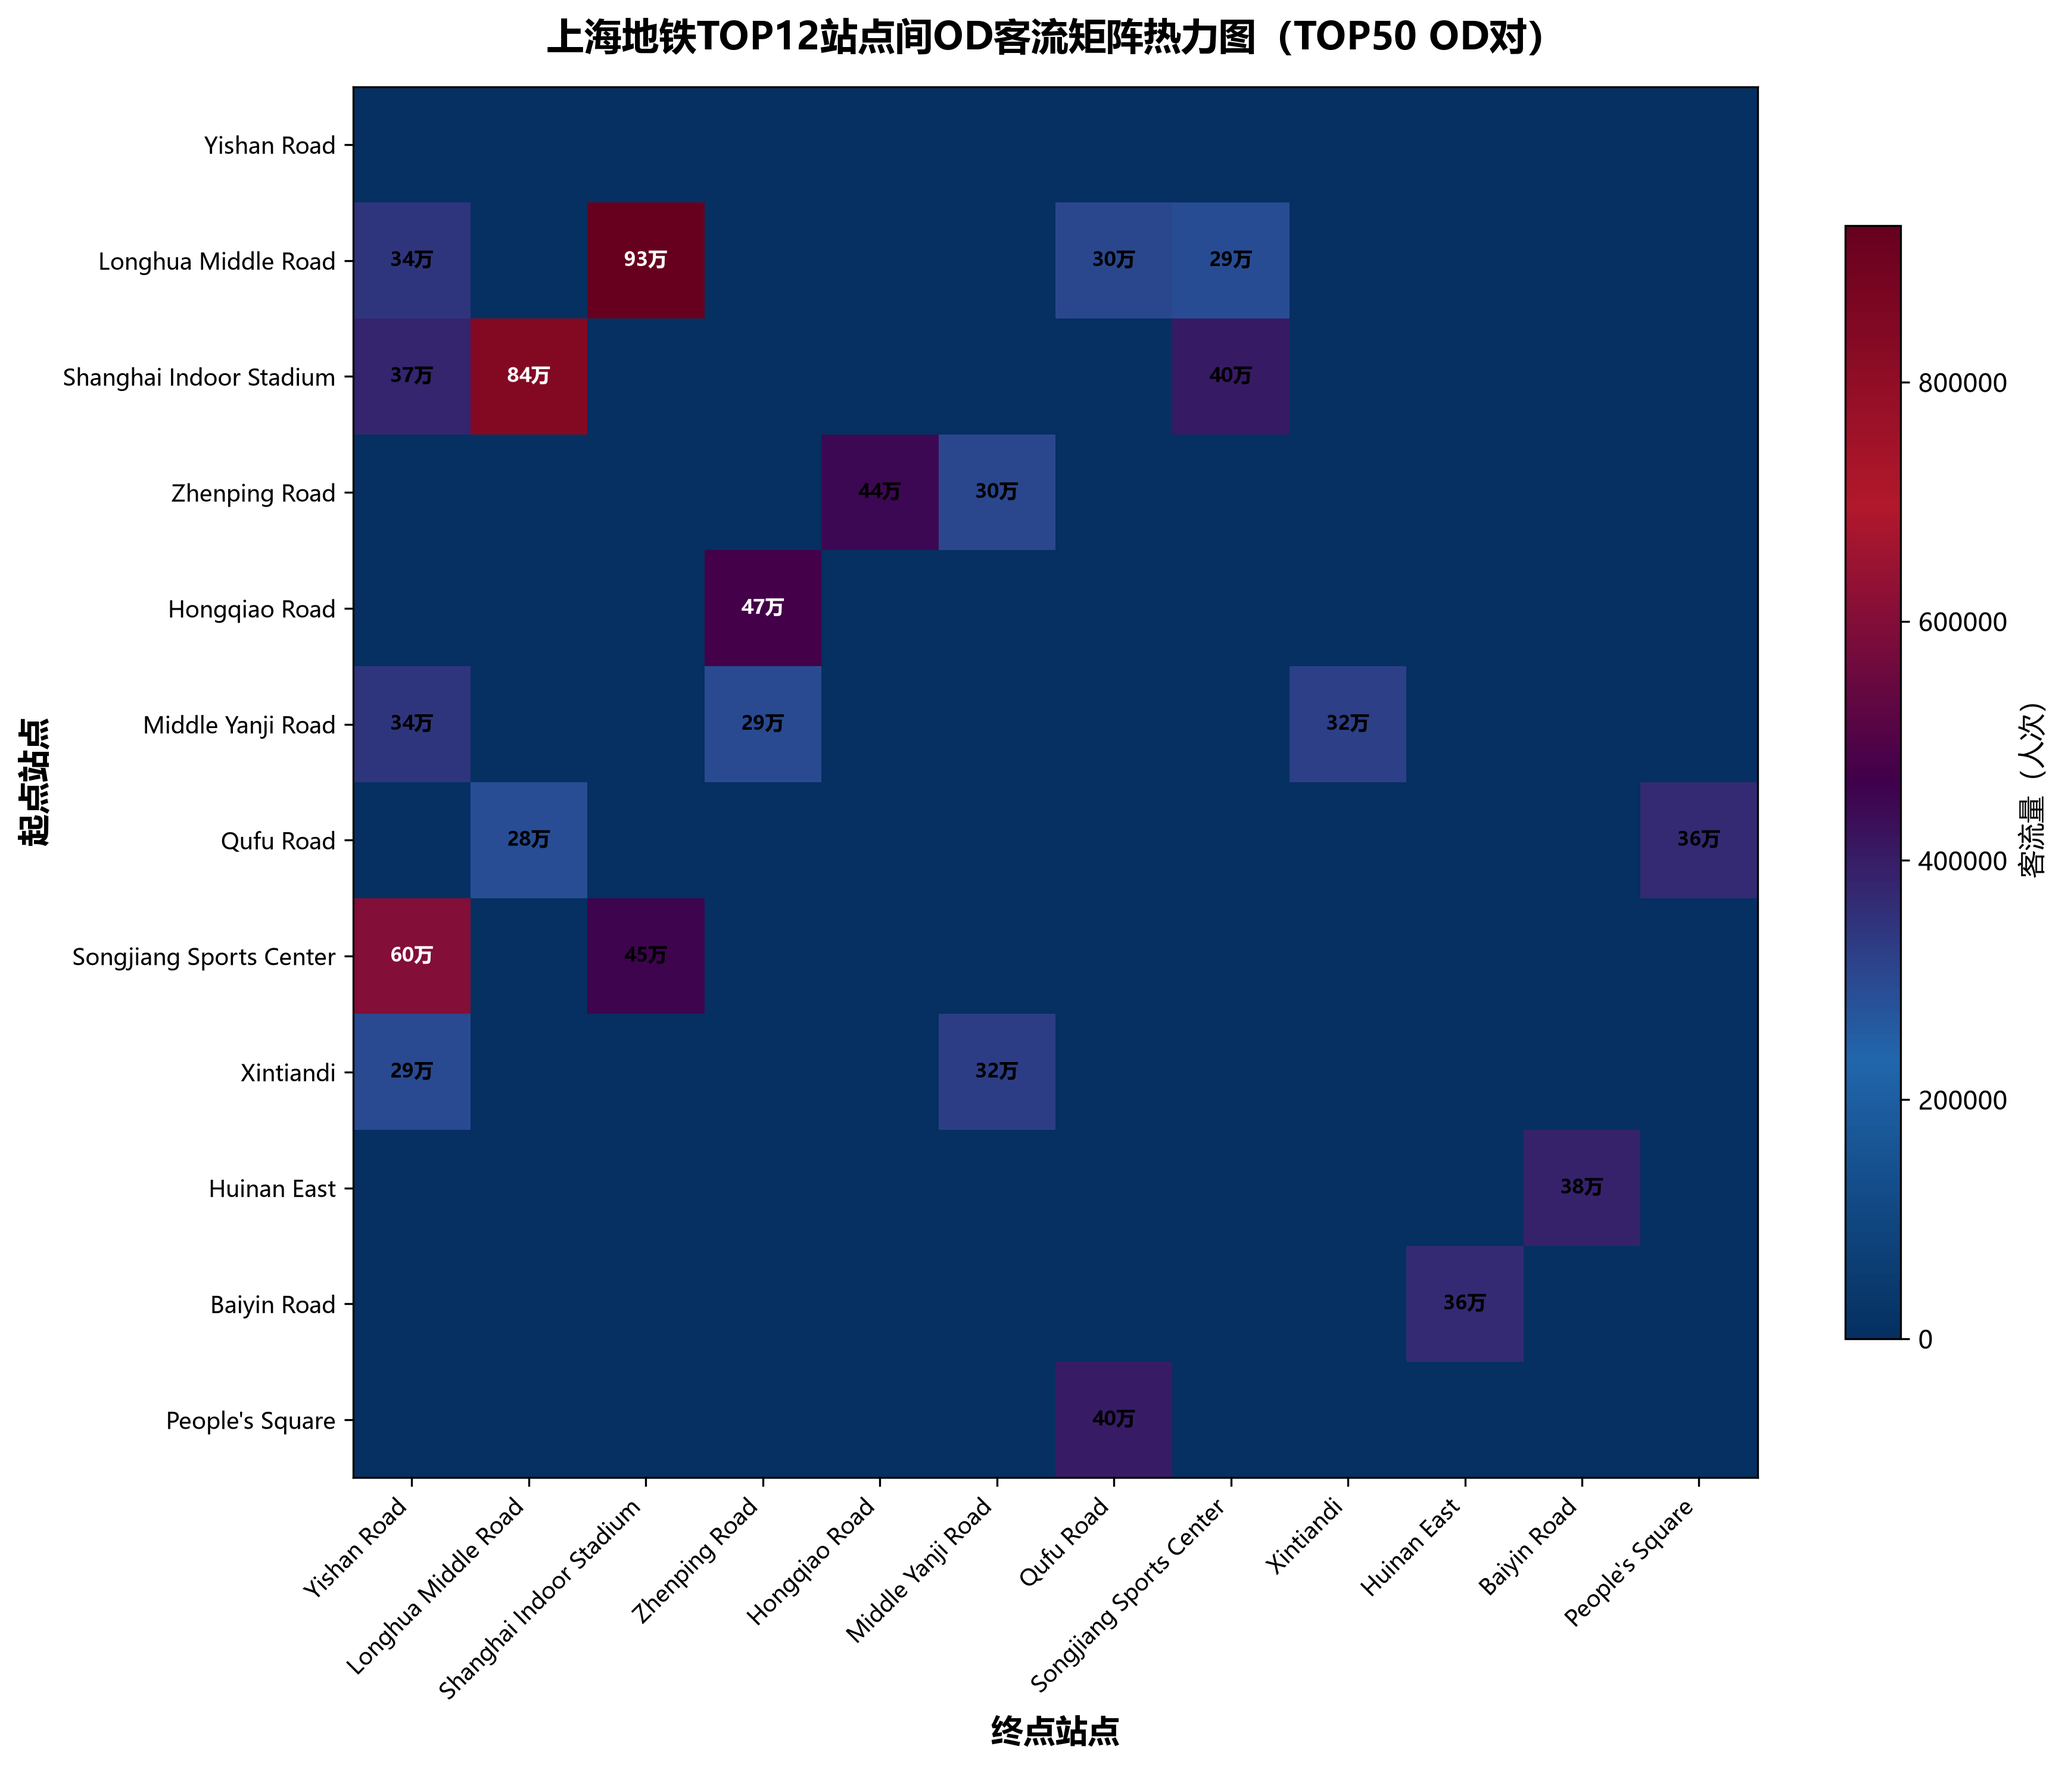
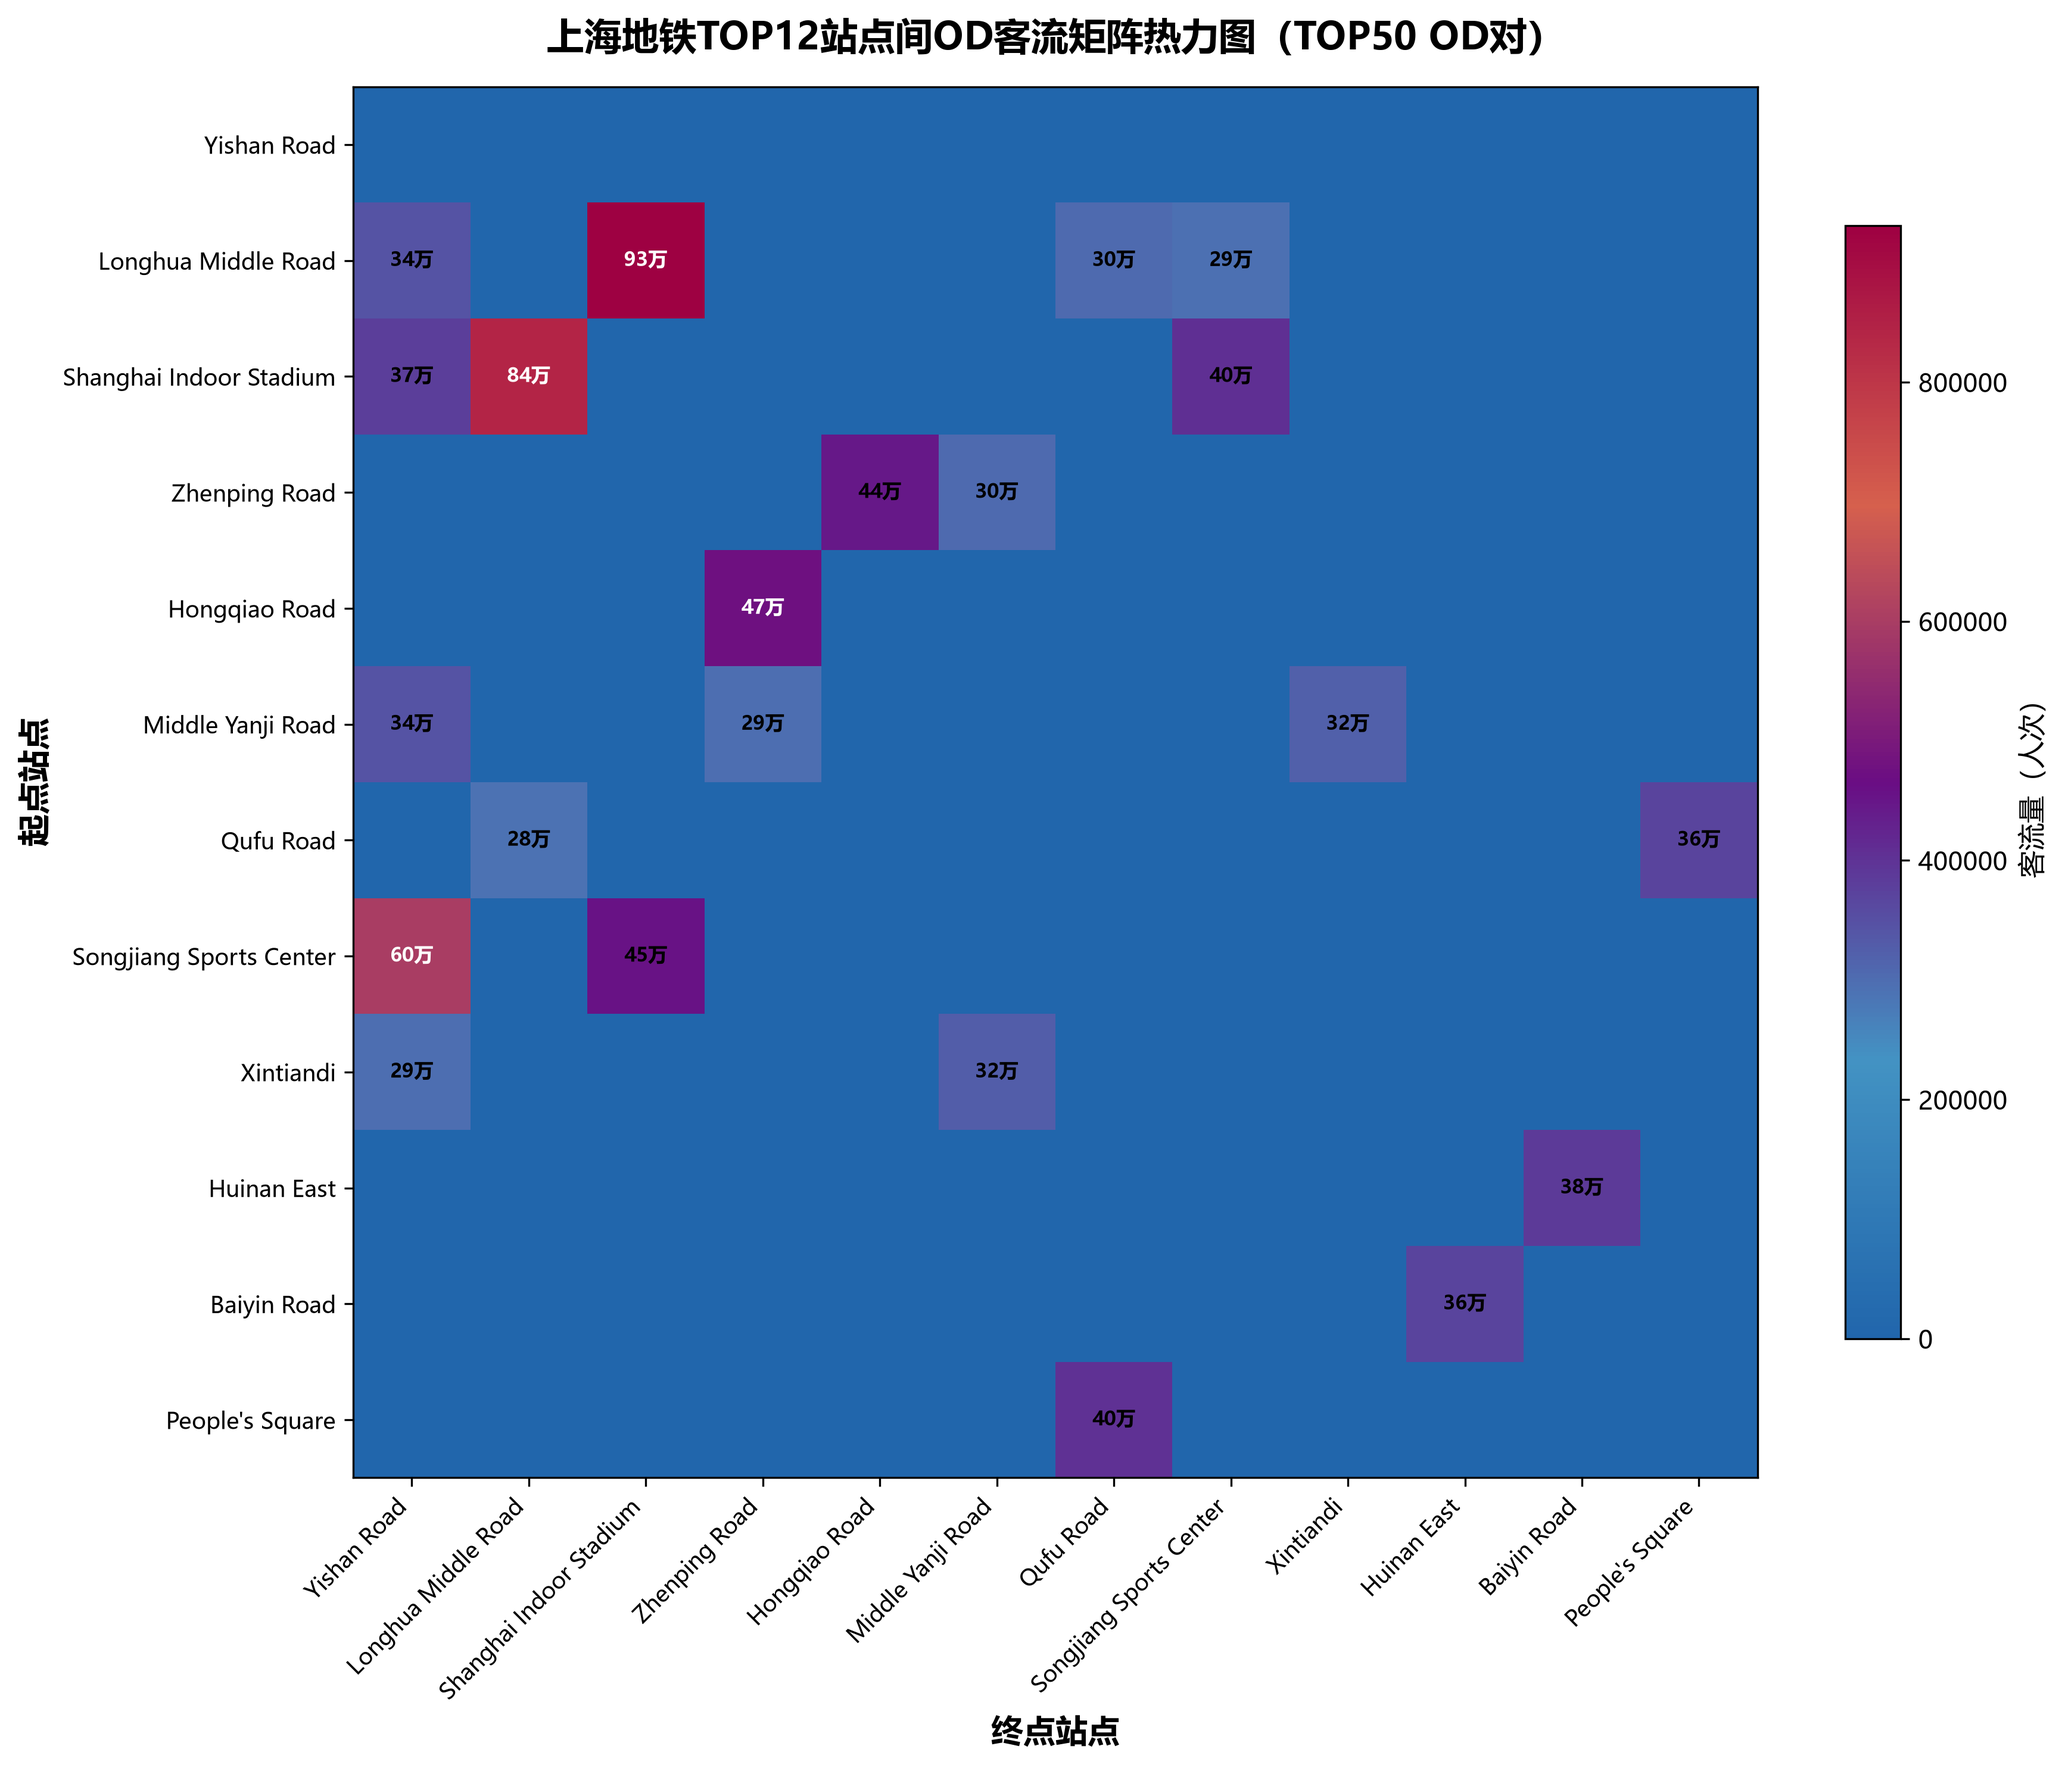
分工3: 蓝色端从深蓝调亮为中蓝，避免与地铁线路糊在一起

diff --git a/code/分工3/06_工作日周末差异.py b/code/分工3/06_工作日周末差异.py
@@ -14,10 +14,10 @@ import matplotlib.pyplot as plt
 from matplotlib.colors import LinearSegmentedColormap
 import numpy as np
 
-# 自定义深蓝→深紫→深红深色渐变（双向差异：负=蓝，正=红，中间深紫）
+# 自定义中蓝→深紫→深红深色渐变（双向差异：负=蓝，正=红，中间深紫）
 CMAP_DIFF = LinearSegmentedColormap.from_list(
     "blue_red_dark",
-    ["#053061", "#2166ac", "#40004b", "#b2182b", "#67001f"],
+    ["#2166ac", "#4393c3", "#6a0d83", "#d6604d", "#9e0142"],
     N=256
 )
 

diff --git a/code/分工3/04_全时段客流热力图.py b/code/分工3/04_全时段客流热力图.py
@@ -14,10 +14,10 @@ import matplotlib.pyplot as plt
 from matplotlib.colors import LinearSegmentedColormap
 import numpy as np
 
-# 自定义深蓝→深紫→深红深色渐变（全程无浅色）
+# 自定义中蓝→深紫→深红深色渐变（蓝色端不糊）
 CMAP_FLOW = LinearSegmentedColormap.from_list(
     "blue_red_dark",
-    ["#053061", "#2166ac", "#40004b", "#b2182b", "#67001f"],
+    ["#2166ac", "#4393c3", "#6a0d83", "#d6604d", "#9e0142"],
     N=256
 )
 

diff --git a/code/分工3/05_分时段对比图.py b/code/分工3/05_分时段对比图.py
@@ -14,10 +14,10 @@ import matplotlib.pyplot as plt
 from matplotlib.colors import LinearSegmentedColormap
 import numpy as np
 
-# 自定义深蓝→深紫→深红深色渐变（全程无浅色）
+# 自定义中蓝→深紫→深红深色渐变（蓝色端不糊）
 CMAP_FLOW = LinearSegmentedColormap.from_list(
     "blue_red_dark",
-    ["#053061", "#2166ac", "#40004b", "#b2182b", "#67001f"],
+    ["#2166ac", "#4393c3", "#6a0d83", "#d6604d", "#9e0142"],
     N=256
 )
 

diff --git a/code/分工3/07b_OD可视化优化版.py b/code/分工3/07b_OD可视化优化版.py
@@ -19,10 +19,10 @@ from matplotlib.patches import FancyArrowPatch
 import geopandas as gpd
 from pyproj import Transformer
 
-# 自定义深蓝→深紫→深红深色渐变（全程无浅色）
+# 自定义中蓝→深紫→深红深色渐变（蓝色端不糊）
 CMAP_FLOW = LinearSegmentedColormap.from_list(
     "blue_red_dark",
-    ["#053061", "#2166ac", "#40004b", "#b2182b", "#67001f"],
+    ["#2166ac", "#4393c3", "#6a0d83", "#d6604d", "#9e0142"],
     N=256
 )
 
